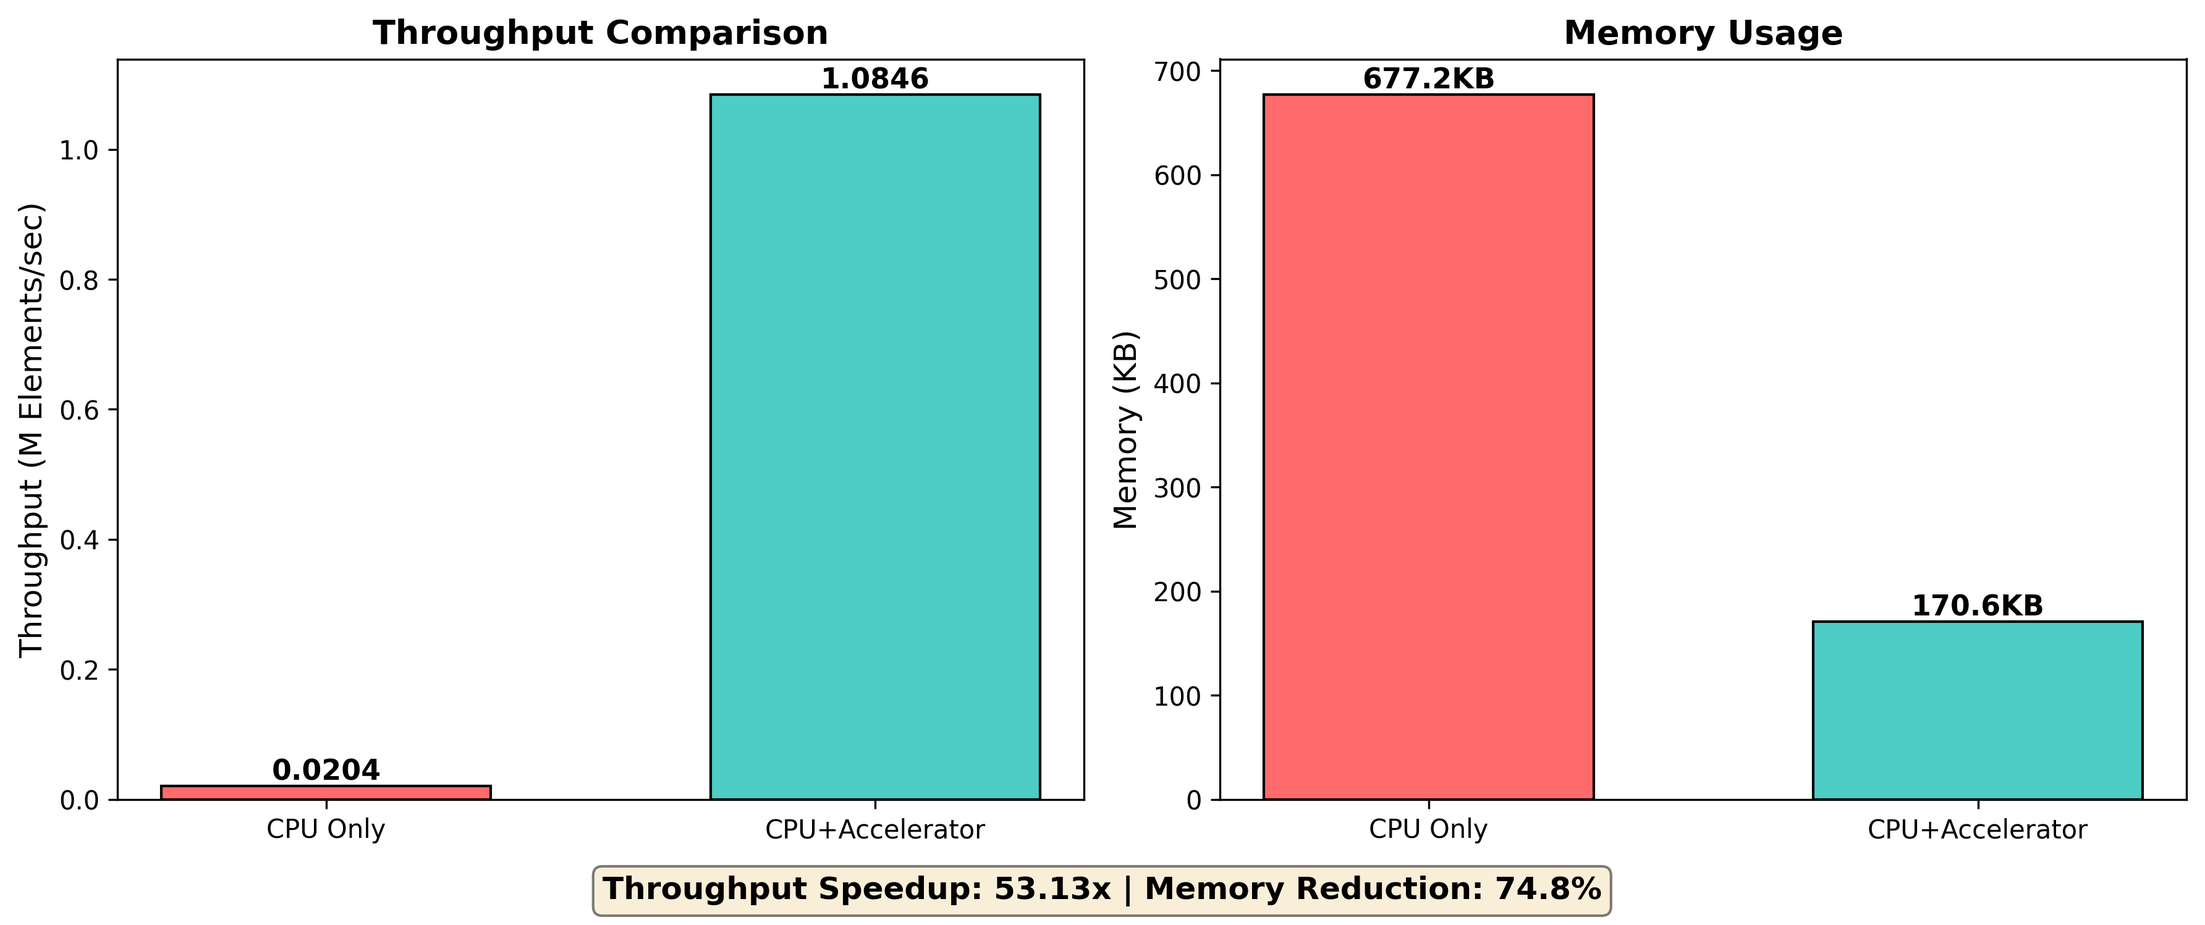
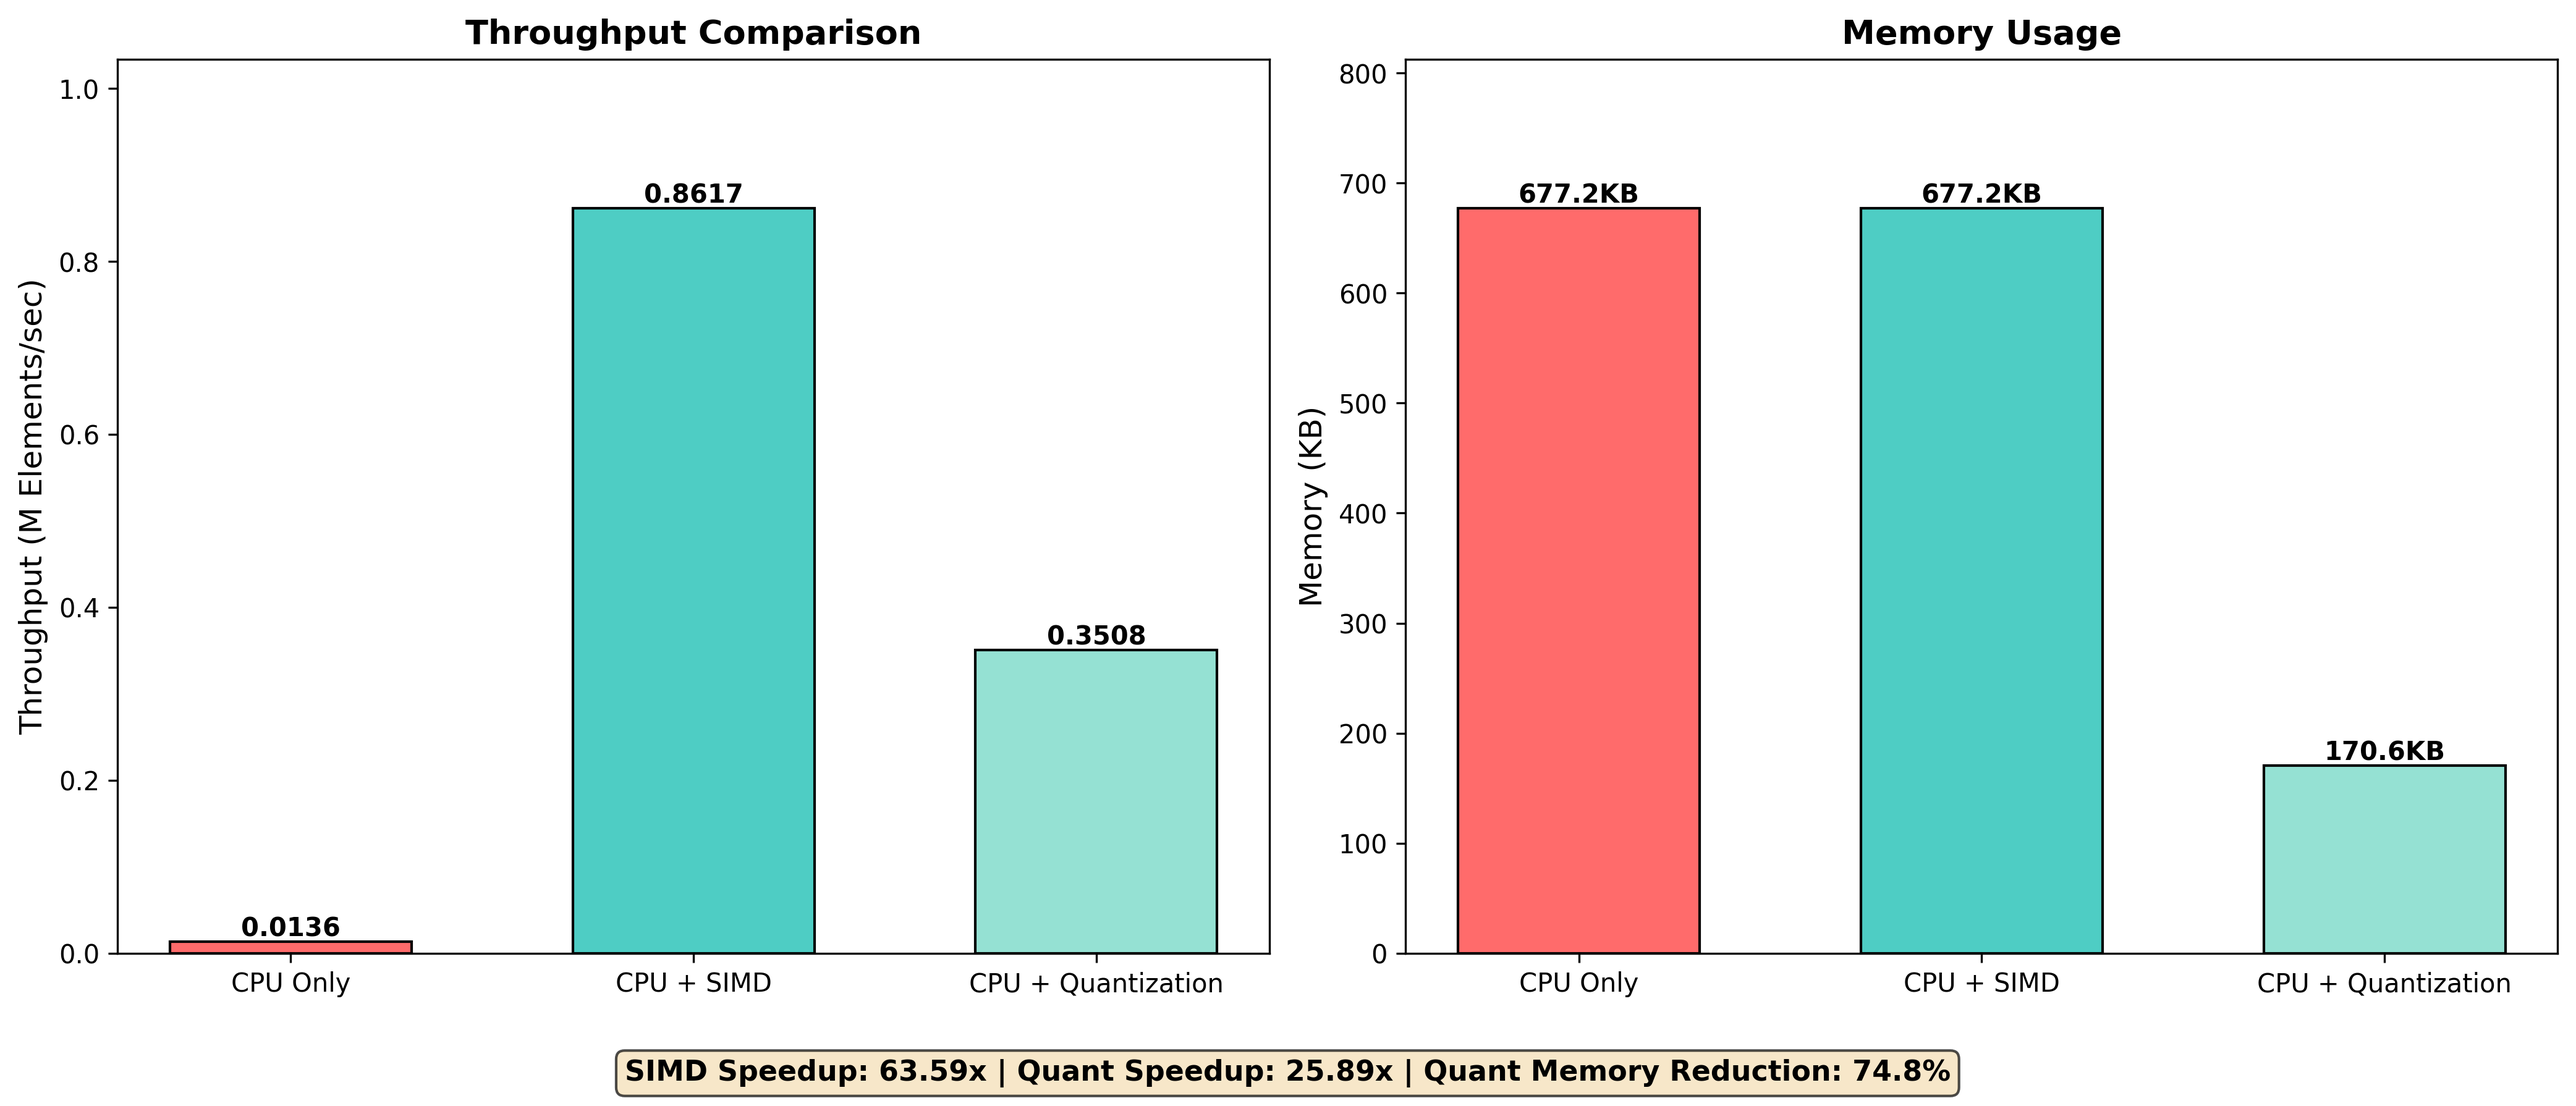
Add changes

diff --git a/visualize.py b/visualize.py
@@ -41,16 +41,16 @@ def collect_benchmark_data():
 
 
 def collect_codesign_data():
-    """Collect codesign comparison data"""
+    """Collect codesign comparison data for three scenarios"""
     simulator = MLPCodesignSimulator()
     cpu = simulator.benchmark_cpu_only()
-    accel = simulator.benchmark_cpu_accelerator()
+    simd = simulator.benchmark_cpu_accelerator_simd()
+    quant = simulator.benchmark_cpu_accelerator_quantization()
     
     return {
-        'cpu_throughput': cpu['throughput'],
-        'accel_throughput': accel['throughput'],
-        'cpu_memory': cpu['memory'],
-        'accel_memory': accel['memory'],
+        'cpu': {'throughput': cpu['throughput'], 'memory': cpu['memory'], 'total': cpu['total']},
+        'simd': {'throughput': simd['throughput'], 'memory': simd['memory'], 'total': simd['total']},
+        'quant': {'throughput': quant['throughput'], 'memory': quant['memory'], 'total': quant['total']},
     }
 
 
@@ -159,43 +159,49 @@ def plot_accuracy_chart():
 
 
 def plot_codesign_comparison():
-    """Side-by-side comparison: CPU-Only vs CPU+Accelerator (Throughput focus)"""
+    """Three-way comparison: CPU-Only vs True SIMD vs Quantization (Throughput & Memory focus)"""
     print("Collecting codesign data...")
     data = collect_codesign_data()
     
-    fig, (ax1, ax2) = plt.subplots(1, 2, figsize=(12, 5))
+    fig, (ax1, ax2) = plt.subplots(1, 2, figsize=(14, 6))
     
     # Throughput comparison (in M Elements/sec)
-    scenarios = ['CPU Only', 'CPU+Accelerator']
-    throughputs = [data['cpu_throughput'], data['accel_throughput']]
-    colors_tp = ['#FF6B6B', '#4ECDC4']
+    scenarios = ['CPU Only', 'CPU + SIMD', 'CPU + Quantization']
+    throughputs = [data['cpu']['throughput'], data['simd']['throughput'], data['quant']['throughput']]
+    colors_tp = ['#FF6B6B', '#4ECDC4', '#95E1D3']
     bars1 = ax1.bar(scenarios, throughputs, color=colors_tp, edgecolor='black', width=0.6)
     ax1.set_ylabel('Throughput (M Elements/sec)', fontsize=12)
     ax1.set_title('Throughput Comparison', fontsize=13, fontweight='bold')
+    ax1.set_ylim(0, max(throughputs) * 1.2)
     
-    for bar in bars1:
+    for bar, tp in zip(bars1, throughputs):
         height = bar.get_height()
         ax1.text(bar.get_x() + bar.get_width()/2., height,
-                f'{height:.4f}', ha='center', va='bottom', fontsize=11, fontweight='bold')
+                f'{tp:.4f}', ha='center', va='bottom', fontsize=10, fontweight='bold')
     
     # Memory comparison
-    memories = [data['cpu_memory'], data['accel_memory']]
+    memories = [data['cpu']['memory'], data['simd']['memory'], data['quant']['memory']]
     bars2 = ax2.bar(scenarios, memories, color=colors_tp, edgecolor='black', width=0.6)
     ax2.set_ylabel('Memory (KB)', fontsize=12)
     ax2.set_title('Memory Usage', fontsize=13, fontweight='bold')
+    ax2.set_ylim(0, max(memories) * 1.2)
     
-    for bar in bars2:
+    for bar, mem in zip(bars2, memories):
         height = bar.get_height()
         ax2.text(bar.get_x() + bar.get_width()/2., height,
-                f'{height:.1f}KB', ha='center', va='bottom', fontsize=11, fontweight='bold')
+                f'{mem:.1f}KB', ha='center', va='bottom', fontsize=10, fontweight='bold')
     
-    # Add throughput speedup annotation
-    tp_speedup = data['accel_throughput'] / data['cpu_throughput']
-    mem_saved = (1 - data['accel_memory'] / data['cpu_memory']) * 100
-    fig.text(0.5, 0.02, f'Throughput Speedup: {tp_speedup:.2f}x | Memory Reduction: {mem_saved:.1f}%',
-             ha='center', fontsize=12, fontweight='bold', bbox=dict(boxstyle='round', facecolor='wheat', alpha=0.5))
+    # Add speedup annotations
+    cpu_baseline = data['cpu']['throughput']
+    simd_speedup = data['simd']['throughput'] / cpu_baseline
+    quant_speedup = data['quant']['throughput'] / cpu_baseline
+    mem_saved_quant = (1 - data['quant']['memory'] / data['cpu']['memory']) * 100
     
-    plt.tight_layout(rect=[0, 0.05, 1, 1])
+    summary_text = f'SIMD Speedup: {simd_speedup:.2f}x | Quant Speedup: {quant_speedup:.2f}x | Quant Memory Reduction: {mem_saved_quant:.1f}%'
+    fig.text(0.5, 0.02, summary_text,
+             ha='center', fontsize=11, fontweight='bold', bbox=dict(boxstyle='round', facecolor='wheat', alpha=0.7))
+    
+    plt.tight_layout(rect=(0, 0.07, 1, 1))
     plt.savefig('codesign_comparison.png', dpi=300, bbox_inches='tight')
     print("✓ Saved: codesign_comparison.png")
     plt.close()

diff --git a/codesign.py b/codesign.py
@@ -2,7 +2,7 @@ import numpy as np
 import time
 from config import WORKLOAD, KERNEL_PROPS
 from profiler import measure_matmul
-from kernels import matmul_scalar_cpu, matmul_true_simd, matmul_quantized_int8
+from kernels import matmul_naive, matmul_true_simd, matmul_quantized_int8
 
 
 class MLPCodesignSimulator:
@@ -23,12 +23,12 @@ class MLPCodesignSimulator:
         return result
     
     def benchmark_cpu_only(self):
-        print("SCENARIO 1: CPU-ONLY (Scalar MatMul)")
+        print("SCENARIO 1: CPU-ONLY (Naive Pure Python Baseline)")
         
         results = []
         total_output_elements = 0
         for layer in self.LAYERS:
-            r = self._measure_layer_matmul(layer['input'], layer['weight'], matmul_scalar_cpu)
+            r = self._measure_layer_matmul(layer['input'], layer['weight'], matmul_naive)
             results.append(r)
             total_output_elements += layer['weight']
         

diff --git a/kernels.py b/kernels.py
@@ -12,15 +12,22 @@ import numpy as np
 import simd
 
 
-def matmul_naive(A: np.ndarray, B: np.ndarray) -> np.ndarray:
+def matmul_naive(A: np.ndarray, B: np.ndarray) -> tuple:
     """
-    Naive baseline: numpy's @ operator (compiled C code, no hand tuning).
+    Truly naive baseline: Pure Python triple-nested loop, no optimization.
     """
-    # M, K = A.shape
-    # K2, N = B.shape
-    # assert K == K2, f"Inner dimensions must match: {K} vs {K2}"
+    M, K = A.shape
+    K2, N = B.shape    
+    result = [[0.0 for _ in range(N)] for _ in range(M)]
     
-    return A @ B
+    numop = 0
+    for i in range(M):
+        for j in range(N):
+            for k in range(K):
+                result[i][j] += A[i, k] * B[k, j]
+                numop += 1
+    
+    return np.array(result, dtype=np.float32), numop
   
 def matmul_simd(A: np.ndarray, B: np.ndarray) -> np.ndarray:
   """

diff --git a/config.py b/config.py
@@ -3,7 +3,7 @@ Shared configuration for benchmark, codesign, and visualization scripts.
 """
 
 from kernels import (
-    matmul_scalar_cpu, matmul_simd, matmul_true_simd, 
+    matmul_naive, matmul_scalar_cpu, matmul_simd, matmul_true_simd, 
     matmul_true_simd_offset, matmul_true_simd_membank, 
     matmul_quantized_int8, matmul_simd_quantized_int8
 )
@@ -15,6 +15,7 @@ WORKLOAD_NAME = "Boundary Layers (512→256→128→64)"
 
 # Kernel properties: map kernel functions to their metadata
 KERNEL_PROPS = {
+    matmul_naive: {'name': 'Naive Python', 'uses_int8': False},
     matmul_scalar_cpu: {'name': 'Scalar', 'uses_int8': False},
     matmul_simd: {'name': 'SIMD', 'uses_int8': False},
     matmul_true_simd: {'name': 'True SIMD', 'uses_int8': False},
